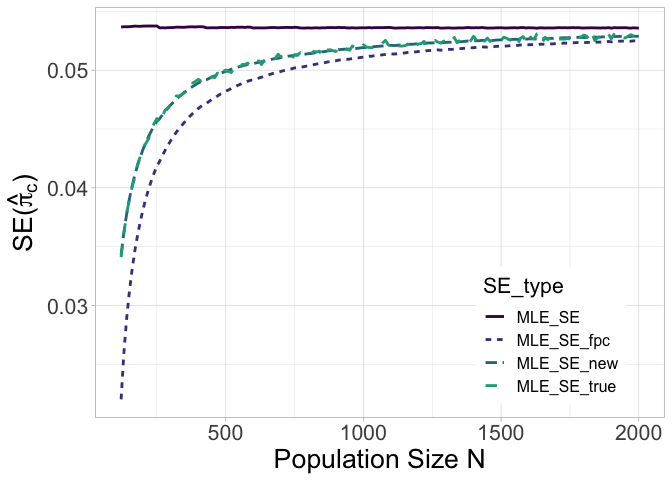
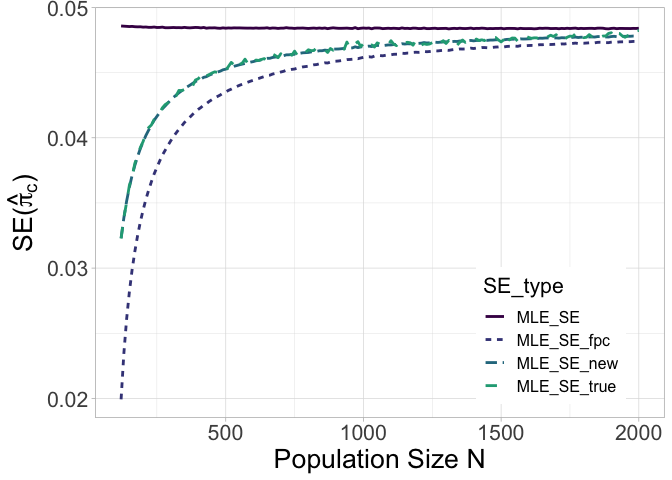
change README

diff --git a/README.md b/README.md
@@ -69,10 +69,10 @@ n_pos.RS = max(sum(testpos.RS),0.001)
 c(n.RS, n_pos.RS)
 ```
 
-    ## [1] 200  26
+    ## [1] 200  24
 
 Here we generate a imperfect testing data set with size 200 and among
-this data set, 26 people are observed positive test results.
+this data set, 24 people are observed positive test results.
 
 ## Data Analysis
 
@@ -88,7 +88,7 @@ pi_hat_c = max((pi_hat+Sp-1)/(Se+Sp-1),0)
 c(pi_hat, pi_hat_c)
 ```
 
-    ## [1] 0.13000000 0.09411765
+    ## [1] 0.12000000 0.08235294
 
 as well as three types of standard errors of
 ![\hat{\pi}](https://latex.codecogs.com/png.latex?%5Chat%7B%5Cpi%7D "\hat{\pi}")
@@ -109,7 +109,7 @@ V3_pi = V2_pi+V_pi_extra
 sqrt(c(V1_pi, V2_pi, V3_pi))
 ```
 
-    ## [1] 0.02378024 0.02132307 0.02249830
+    ## [1] 0.02297825 0.02060395 0.02180648
 
 By inserting eqn.(1), (2), (12) into eqn. (6), we could obtain three
 types of standard errors of
@@ -121,7 +121,7 @@ se.vect = 1/(Se+Sp-1)*sqrt(c(V1_pi, V2_pi, V3_pi))
 se.vect
 ```
 
-    ## [1] 0.02797676 0.02508597 0.02646858
+    ## [1] 0.02703324 0.02423994 0.02565468
 
 Then we can output the wald-type 95% CIs as well as their width based on
 three standard erros as follows.
@@ -131,21 +131,21 @@ three standard erros as follows.
 c(pi_hat_c-1.96*se.vect[1],pi_hat_c+1.96*se.vect[1], 2*1.96*se.vect[1])
 ```
 
-    ## [1] 0.0392832 0.1489521 0.1096689
+    ## [1] 0.0293678 0.1353381 0.1059703
 
 ``` r
 # SE w/  fpc
 c(pi_hat_c-1.96*se.vect[2],pi_hat_c+1.96*se.vect[2], 2*1.96*se.vect[2])
 ```
 
-    ## [1] 0.04494915 0.14328614 0.09833699
+    ## [1] 0.03484266 0.12986322 0.09502055
 
 ``` r
 # SE new
 c(pi_hat_c-1.96*se.vect[3],pi_hat_c+1.96*se.vect[3], 2*1.96*se.vect[3])
 ```
 
-    ## [1] 0.04223922 0.14599607 0.10375685
+    ## [1] 0.03206976 0.13263612 0.10056636
 
 In addition to the wald type confidence interval calculated based on the
 standard errors estimated above, we introduced a Bayesian credible
@@ -156,7 +156,7 @@ BC_interval = RS_BC(N,n_pos.RS,n.RS,Se,Sp)
 c(BC_interval$BC_lower, BC_interval$BC_upper, BC_interval$BC_width)
 ```
 
-    ## [1] 0.04657319 0.15540825 0.10883506
+    ## [1] 0.03806355 0.13805190 0.09998835
 
 ## Simulation Studies
 
@@ -183,25 +183,25 @@ round(tmp[,],3)
 ```
 
     ##       p_case p_stream2 N_true RS.mean RS.sd RS.avgse RS.width RS.CIpct
-    ##  [1,]    0.1       0.1    0.1   0.101 0.054    0.055    0.215    91.98
-    ##  [2,]    0.1       0.3    0.1   0.099 0.031    0.030    0.117    94.08
-    ##  [3,]    0.1       0.5    0.1   0.100 0.021    0.022    0.085    95.16
-    ##  [4,]    0.3       0.1    0.3   0.301 0.074    0.074    0.289    94.20
-    ##  [5,]    0.3       0.3    0.3   0.300 0.039    0.039    0.154    95.44
-    ##  [6,]    0.3       0.5    0.3   0.300 0.028    0.027    0.108    94.78
-    ##  [7,]    0.5       0.1    0.5   0.500 0.080    0.080    0.314    94.66
-    ##  [8,]    0.5       0.3    0.5   0.500 0.042    0.042    0.166    94.84
-    ##  [9,]    0.5       0.5    0.5   0.500 0.030    0.030    0.116    95.34
+    ##  [1,]    0.1       0.1    0.1   0.098 0.053    0.054    0.213    91.44
+    ##  [2,]    0.1       0.3    0.1   0.100 0.030    0.030    0.117    94.56
+    ##  [3,]    0.1       0.5    0.1   0.100 0.022    0.022    0.085    94.42
+    ##  [4,]    0.3       0.1    0.3   0.300 0.073    0.074    0.289    95.14
+    ##  [5,]    0.3       0.3    0.3   0.300 0.040    0.039    0.154    95.22
+    ##  [6,]    0.3       0.5    0.3   0.300 0.027    0.027    0.108    94.76
+    ##  [7,]    0.5       0.1    0.5   0.502 0.080    0.080    0.314    94.38
+    ##  [8,]    0.5       0.3    0.5   0.500 0.042    0.042    0.166    94.82
+    ##  [9,]    0.5       0.5    0.5   0.500 0.029    0.030    0.116    95.48
     ##       RS.BC_width RS.BC_CIpct
-    ##  [1,]       0.205       95.32
-    ##  [2,]       0.116       94.28
-    ##  [3,]       0.084       95.28
-    ##  [4,]       0.282       94.46
-    ##  [5,]       0.152       95.16
-    ##  [6,]       0.107       94.50
-    ##  [7,]       0.305       95.22
-    ##  [8,]       0.164       94.94
-    ##  [9,]       0.115       95.00
+    ##  [1,]       0.204       95.20
+    ##  [2,]       0.116       94.74
+    ##  [3,]       0.084       94.64
+    ##  [4,]       0.281       95.24
+    ##  [5,]       0.152       95.08
+    ##  [6,]       0.107       94.56
+    ##  [7,]       0.305       94.90
+    ##  [8,]       0.164       94.88
+    ##  [9,]       0.115       94.94
 
 ## Including Figures
 
@@ -215,8 +215,7 @@ Sp = 0.95
 
 # observed imperfect testing sample
 n.RS=100
-n_pos.RS = 30
-p_case = (n_pos.RS/n.RS+Sp-1)/(Se+Sp-1)  # not a interger here
+p_case = 0.2  
 
 for(N_i in N_tmp){
     tmp = RS_SE_compare_main(N=N_i, p_case=p_case, p.RS=n.RS/N_i, Se=Se, Sp=Sp)  
